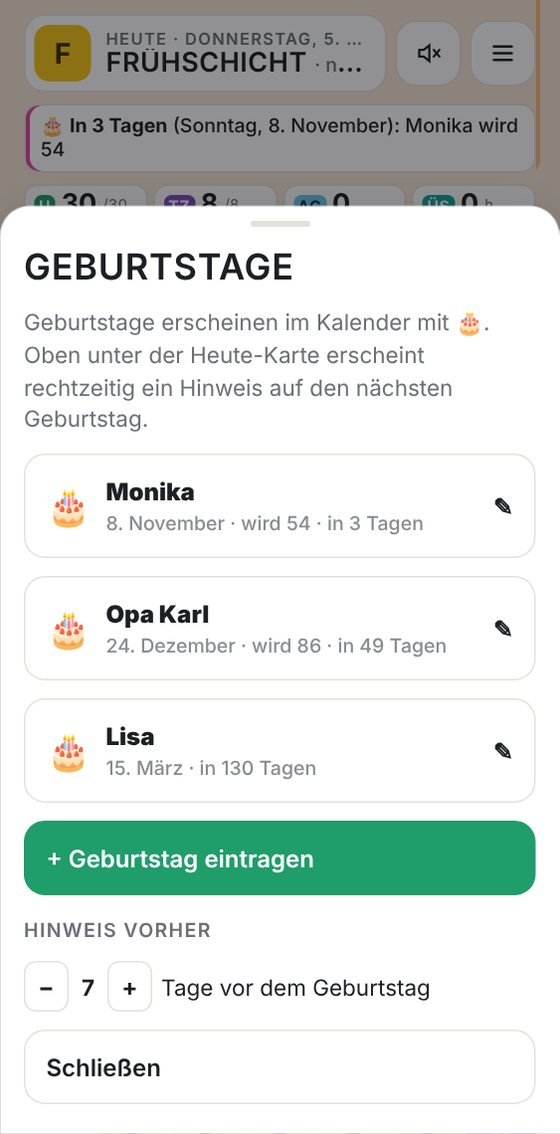
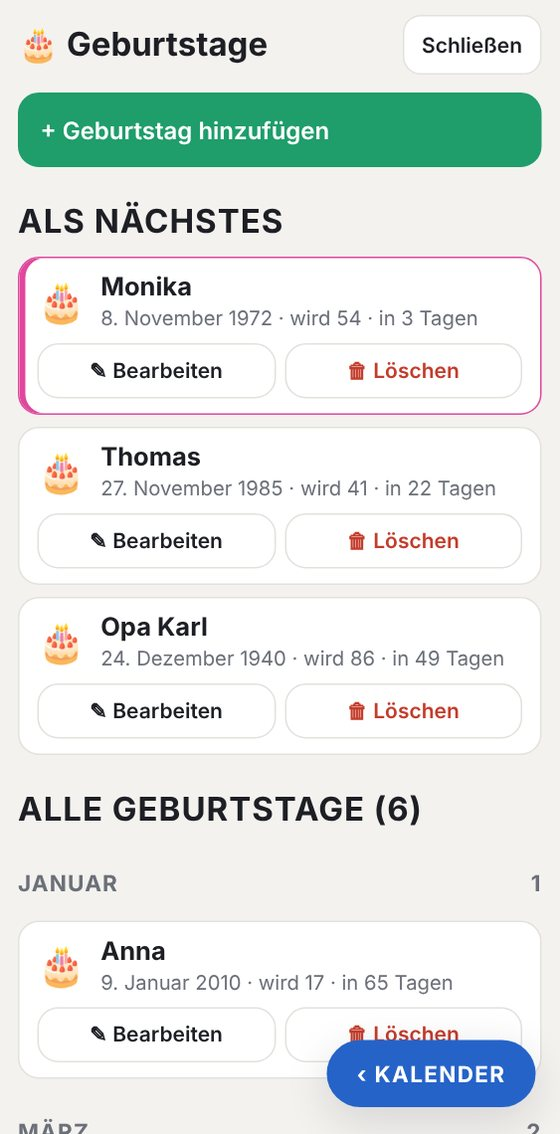
Geburtstage: eigene Übersichtsseite mit Bearbeiten, Löschen, Hinzufügen, nach Monaten sortiert
Claude-Session: https://claude.ai/code/session_01UYarYwaQ4b7eDEgu1BrBR4

diff --git a/index.html b/index.html
@@ -336,6 +336,11 @@ body.pv .budget{display:none}
 .pvnote{font-size:13.5px;color:var(--muted);margin:0}
 .day.ic2::before,.day.ic2[data-ic].ot::before{font-size:10px;letter-spacing:-1px;right:1px}
 .bdbar{box-shadow:inset 3px 0 0 #e0479e}
+.bdcard{background:var(--surface);border:1px solid var(--line);border-radius:14px;padding:10px 12px;display:grid;gap:8px}
+.bdcard.soon{border-color:#e0479e;box-shadow:inset 4px 0 0 #e0479e}
+.bdtop{display:flex;align-items:center;gap:10px}.bdtop .bdi{font-size:26px}.bdtop b{font-size:17px;display:block}.bdtop small{color:var(--muted);font-size:13.5px}
+.bdbtns{display:grid;grid-template-columns:1fr 1fr;gap:6px}.bdbtns .btn{justify-content:center;padding:9px 6px;font-size:14px}
+.bdmon{margin:16px 0 6px;font:700 15px var(--f-body);text-transform:uppercase;letter-spacing:.05em;color:var(--muted);display:flex;justify-content:space-between}
 .bdrow{display:flex;align-items:center;gap:10px}.bdrow .bdi{font-size:24px}.bdrow small{color:var(--muted)}
 .backfab{z-index:12;background:var(--nacht);color:var(--nacht-ink)}
 .day .rt{position:absolute;right:2px;top:3px;max-width:calc(55% - 4px);overflow:hidden;white-space:nowrap;font:800 9.5px/1.3 var(--f-body);letter-spacing:.02em;padding:0 2px;border-radius:3px;background:rgba(255,255,255,.88);color:#1d1f24;box-shadow:0 0 0 1px rgba(0,0,0,.18)}
@@ -425,6 +430,7 @@ a.btn{text-decoration:none;justify-content:center}
 <div class="yearview" id="helpView" hidden></div>
 <div class="yearview" id="entriesView" hidden></div>
 <div class="yearview" id="contactsView" hidden></div>
+<div class="yearview" id="bdaysView" hidden></div>
 <div class="toast" id="toast" hidden role="status"></div>
 <div class="scrim" id="scrim" hidden></div>
 <div class="sheet" id="sheet" hidden role="dialog" aria-modal="true"></div>
@@ -1984,7 +1990,7 @@ var qrcode=function(){var t=function(t,r){var e=t,n=g[r],o=null,i=0,a=null,u=[],
     ["modelle","Schichtplan und eigene Schichtmodelle","modelle",
      "Unter ☰ → <b>🔁 Schichtplan</b> kannst du für einen Zeitraum ein anderes Schichtmodell festlegen. Tippe auf „+ Neues Schichtmodell“. Für einen Zeitraum kannst du ein anderes Schichtmodell festlegen: Name, Gilt von, bis, dann den Ablauf aus Blöcken bauen (Früh, Spät, Nacht oder Frei, jeweils mit Anzahl Tage). Die Vorschau zeigt die ersten Wochen. Außerhalb gilt das 17,5-Modell, außer du hast es auf derselben Seite unten ausgeschaltet."],
     ["geburtstage","Geburtstage","geburtstage",
-     "Unter ☰ → <b>🎂 Geburtstage</b> trägst du Name und Geburtstag ein. Kennst du das Jahr nicht, setze den Haken „Geburtsjahr nicht bekannt“. Schneller geht es auch über den Kalender: Tag antippen → <b>🎂 Geburtstag an diesem Tag eintragen</b>. Die Liste ist nach dem nächsten Geburtstag sortiert. Bei „Hinweis vorher“ stellst du ein, wie viele Tage vorher erinnert wird (Standard 7). Mit <b>📅 Jedes Jahr in Google Kalender eintragen</b> bekommst du zusätzlich eine Erinnerung vom Handy."],
+     "Unter ☰ → <b>🎂 Geburtstage</b> trägst du Name und Geburtstag ein. Kennst du das Jahr nicht, setze den Haken „Geburtsjahr nicht bekannt“. Schneller geht es auch über den Kalender: Tag antippen → <b>🎂 Geburtstag an diesem Tag eintragen</b>. Auf der Seite <b>Geburtstage</b> siehst du oben die nächsten drei und darunter <b>alle Geburtstage nach Monaten</b>. Bei jedem Eintrag gibt es <b>✎ Bearbeiten</b> und <b>🗑 Löschen</b> (zweimal tippen), oben <b>+ Geburtstag hinzufügen</b>. Bald anstehende Geburtstage sind rosa umrandet. Bei „Hinweis vorher“ stellst du ein, wie viele Tage vorher erinnert wird (Standard 7). Unter ✎ Bearbeiten findest du <b>📅 Jedes Jahr in Google Kalender eintragen</b>, damit bekommst du zusätzlich eine Erinnerung vom Handy."],
     ["geburtstage2","Geburtstage im Kalender","geburtstage2",
      "Im Kalender steht am Geburtstag ein kleines <b>🎂</b> rechts im Tag. Oben unter der Heute-Karte erscheint rechtzeitig eine Leiste, z. B. „🎂 In 3 Tagen (Samstag, 7. November): Monika wird 54“, am Tag selbst „🎉 Heute hat Geburtstag“. Antippen der Leiste springt zum Tag. Geburtstage werden beim Teilen mit dem Partner nicht mitgeschickt."],
     ["routinen","Routinen","routinen",
@@ -2160,17 +2166,32 @@ var qrcode=function(){var t=function(t,r){var e=t,n=g[r],o=null,i=0,a=null,u=[],
   const bdDate=b=>{const [m,d]=b.d.split("-").map(Number);return d+". "+MON[m-1]};
   function bdGcal(b){const n=bdNext(b,TODAY),f=x=>iso(x).replace(/-/g,"");
     return "https://calendar.google.com/calendar/render?action=TEMPLATE&text="+encodeURIComponent("🎂 Geburtstag "+b.name)+"&dates="+f(n)+"/"+f(n+1)+"&recur="+encodeURIComponent("RRULE:FREQ=YEARLY")+"&details="+encodeURIComponent("(aus Schichtplan 17,5)")}
-  function bdaysSheet(){
-    const list=bdays.map((b,i)=>({b,i,n:bdNext(b,TODAY)})).sort((x,y)=>x.n-y.n).map(({b,i,n})=>{const k=n-TODAY,a=bdAge(b,n);
-      return '<button class="btn" data-bi="'+i+'"><span class="bdrow"><span class="bdi">'+(k===0?'🎉':'🎂')+'</span><span><b>'+esc(b.name)+'</b><br><small>'+bdDate(b)+(a!=null?' · wird '+a:'')+' · '+(k===0?'<b>heute</b>':k===1?'morgen':'in '+k+' Tagen')+'</small></span></span><span>✎</span></button>'}).join("");
-    openSheet('<h3>Geburtstage</h3><p>Geburtstage erscheinen im Kalender mit 🎂. Oben unter der Heute-Karte erscheint rechtzeitig ein Hinweis auf den nächsten Geburtstag.</p>'+
-      (list||'<p class="smeta">Noch kein Geburtstag eingetragen.</p>')+
-      '<button class="btn primary" data-a="bnew">+ Geburtstag eintragen</button>'+
-      '<h4>Hinweis vorher</h4><div class="mrow" style="align-items:center"><div class="mstep"><button type="button" data-bl="-1" aria-label="Weniger">−</button><b>'+bdLead+'</b><button type="button" data-bl="1" aria-label="Mehr">+</button></div><span>'+(bdLead===0?'nur am Geburtstag selbst':'Tag'+(bdLead===1?'':'e')+' vor dem Geburtstag')+'</span></div>'+
-      '<button class="btn" data-a="close">Schließen</button>');
-    sheet.onclick=ev=>{const bi=ev.target.closest("[data-bi]"),bl=ev.target.closest("[data-bl]"),a=ev.target.closest("[data-a]")?.dataset.a;
-      if(bi)return bdEditor(+bi.dataset.bi); if(a==="bnew")return bdEditor(-1); if(a==="close")return closeSheet();
-      if(bl){bdLead=Math.max(0,Math.min(30,bdLead+ +bl.dataset.bl));store.set("sp_bdlead",bdLead);renderToday();return bdaysSheet()}};
+  const bv=document.getElementById("bdaysView");
+  function bdaysSheet(){ renderBdays(); if(bv.hidden)openOverlay(bv); closeSheet() }
+  function renderBdays(){
+    const items=bdays.map((b,i)=>({b,i,n:bdNext(b,TODAY)}));
+    const card=({b,i,n})=>{const k=n-TODAY,a=bdAge(b,n),soon=k<=bdLead;
+      return '<li class="bdcard'+(soon?' soon':'')+'"><div class="bdtop"><span class="bdi">'+(k===0?'🎉':'🎂')+'</span><span><b>'+esc(b.name)+'</b><small>'+bdDate(b)+(b.y?' '+b.y:'')+(a!=null?' · wird '+a:'')+' · '+(k===0?'<b style="display:inline;font-size:inherit">heute</b>':k===1?'morgen':'in '+k+' Tagen')+'</small></span></div>'+
+        '<div class="bdbtns"><button type="button" class="btn" data-be="'+i+'">✎ Bearbeiten</button><button type="button" class="btn danger" data-bx="'+i+'">🗑 Löschen</button></div></li>'};
+    const next=items.slice().sort((x,y)=>x.n-y.n).slice(0,3);
+    let byMon="";
+    for(let m=1;m<=12;m++){const l=items.filter(x=>+x.b.d.slice(0,2)===m).sort((x,y)=>+x.b.d.slice(3)- +y.b.d.slice(3)||x.b.name.localeCompare(y.b.name,"de"));
+      if(l.length)byMon+='<div class="bdmon"><span>'+MON[m-1]+'</span><span>'+l.length+'</span></div><ul class="clist">'+l.map(card).join("")+'</ul>'}
+    bv.innerHTML='<div class="yvbar"><strong class="st" style="text-align:left">🎂 Geburtstage</strong><button type="button" class="iconbtn" data-bv="x">Schließen</button></div>'+
+      '<div class="sbody">'+
+      '<button type="button" class="btn primary" data-bv="new">+ Geburtstag hinzufügen</button>'+
+      (items.length?'<h3 class="sh">Als Nächstes</h3><ul class="clist">'+next.map(card).join("")+'</ul>'+
+        '<h3 class="sh">Alle Geburtstage ('+items.length+')</h3>'+byMon
+        :'<p class="smeta">Noch kein Geburtstag eingetragen. Tippe auf „+ Geburtstag hinzufügen“ oder im Kalender auf einen Tag.</p>')+
+      '<h3 class="sh">Hinweis vorher</h3><div class="mrow" style="align-items:center"><div class="mstep"><button type="button" data-bl="-1" aria-label="Weniger">−</button><b>'+bdLead+'</b><button type="button" data-bl="1" aria-label="Mehr">+</button></div><span>'+(bdLead===0?'nur am Geburtstag selbst':'Tag'+(bdLead===1?'':'e')+' vorher erscheint oben im Kalender ein Hinweis')+'</span></div>'+
+      '<p class="smeta">Rosa umrandet = Geburtstag kommt bald. Im Kalender steht am Geburtstag ein 🎂.</p></div>';
+    bv.onclick=ev=>{const t=ev.target,x=t.closest("[data-bv]")?.dataset.bv,be=t.closest("[data-be]"),bx=t.closest("[data-bx]"),bl=t.closest("[data-bl]");
+      if(x==="x")return closeOverlay(bv);
+      if(x==="new")return bdEditor(-1);
+      if(be)return bdEditor(+be.dataset.be);
+      if(bx){if(bx.dataset.sure!=="1"){bv.querySelectorAll("[data-bx]").forEach(o=>{o.dataset.sure="";o.textContent="🗑 Löschen"});bx.dataset.sure="1";bx.textContent="Sicher? Nochmal tippen";return}
+        const nm=bdays[+bx.dataset.bx].name;bdays.splice(+bx.dataset.bx,1);saveBdays();repaintAll();renderBdays();toast("Geburtstag von "+nm+" gelöscht");return}
+      if(bl){bdLead=Math.max(0,Math.min(30,bdLead+ +bl.dataset.bl));store.set("sp_bdlead",bdLead);renderToday();renderBdays()}};
   }
   function bdEditor(idx,day){
     const b=idx>=0?Object.assign({},bdays[idx]):{id:Date.now().toString(36),name:"",d:"",y:null};
@@ -2184,24 +2205,24 @@ var qrcode=function(){var t=function(t,r){var e=t,n=g[r],o=null,i=0,a=null,u=[],
         '<button class="btn primary" data-a="bsave">Speichern</button>'+
         (idx>=0?'<a class="btn" href="'+bdGcal(b)+'" target="_blank" rel="noopener">📅 Jedes Jahr in Google Kalender eintragen</a>':'')+
         (idx>=0?'<button class="btn danger" data-a="bdel">'+(sure?'Wirklich löschen? Nochmal tippen':'Geburtstag löschen')+'</button>':'')+
-        '<button class="btn" data-a="bback">'+(day!=null&&idx<0?'Abbrechen':'Zurück')+'</button>';
+        '<button class="btn" data-a="bback">Abbrechen</button>';
     }
     sheet.hidden=false;scrim.hidden=false;render();
     sheet.onclick=ev=>{const a=ev.target.closest("[data-a]")?.dataset.a;if(!a)return;
       b.name=document.getElementById("bName").value; val=document.getElementById("bDate").value; noYear=document.getElementById("bNoY").checked;
-      if(a==="bback")return day!=null&&idx<0?closeSheet():bdaysSheet();
-      if(a==="bdel"){if(!sure){sure=true;return render()}bdays.splice(idx,1);saveBdays();repaintAll();toast("Geburtstag gelöscht");return bdaysSheet()}
+      if(a==="bback")return closeSheet();
+      if(a==="bdel"){if(!sure){sure=true;return render()}bdays.splice(idx,1);saveBdays();repaintAll();toast("Geburtstag gelöscht");closeSheet();if(!bv.hidden)renderBdays();return}
       if(a==="bsave"){const er=document.getElementById("bErr");b.name=b.name.trim();
         if(!b.name){er.textContent="Bitte einen Namen eintragen.";return}
         if(!/^\d{4}-\d\d-\d\d$/.test(val)){er.textContent="Bitte den Geburtstag wählen.";return}
         const [Y,M,D]=val.split("-"); b.d=M+"-"+D; b.y=noYear?null:+Y;
         if(b.y&&b.y>fromDn(TODAY).y){er.textContent="Das Geburtsjahr liegt in der Zukunft.";return}
-        if(idx>=0)bdays[idx]=b; else bdays.push(b); saveBdays(); repaintAll(); toast("🎂 Geburtstag von "+b.name+" gespeichert"); return bdaysSheet()}
+        if(idx>=0)bdays[idx]=b; else bdays.push(b); saveBdays(); repaintAll(); toast("🎂 Geburtstag von "+b.name+" gespeichert"); closeSheet(); if(!bv.hidden)renderBdays(); return}
     };
   }
   document.getElementById("bdBar").onclick=e=>{const g=+e.currentTarget.dataset.go;if(g)jumpTo(g)};
   // ---------- Schwebender Knopf: von jeder Seite zurück zum Kalender ----------
-  { const OV=["yearView","statsView","notesView","helpView","entriesView","contactsView"].map(id=>document.getElementById(id)), bf=document.getElementById("backFab");
+  { const OV=["yearView","statsView","notesView","helpView","entriesView","contactsView","bdaysView"].map(id=>document.getElementById(id)), bf=document.getElementById("backFab");
     const upd=()=>{bf.hidden=!OV.some(o=>!o.hidden)};
     const mo=new MutationObserver(upd); OV.forEach(o=>mo.observe(o,{attributes:true,attributeFilter:["hidden"]}));
     bf.onclick=()=>{OV.forEach(o=>o.hidden=true);closeSheet();document.body.style.overflow="";upd()}; }

diff --git a/src/schichtplan.html b/src/schichtplan.html
@@ -320,6 +320,11 @@ body.pv .budget{display:none}
 .pvnote{font-size:13.5px;color:var(--muted);margin:0}
 .day.ic2::before,.day.ic2[data-ic].ot::before{font-size:10px;letter-spacing:-1px;right:1px}
 .bdbar{box-shadow:inset 3px 0 0 #e0479e}
+.bdcard{background:var(--surface);border:1px solid var(--line);border-radius:14px;padding:10px 12px;display:grid;gap:8px}
+.bdcard.soon{border-color:#e0479e;box-shadow:inset 4px 0 0 #e0479e}
+.bdtop{display:flex;align-items:center;gap:10px}.bdtop .bdi{font-size:26px}.bdtop b{font-size:17px;display:block}.bdtop small{color:var(--muted);font-size:13.5px}
+.bdbtns{display:grid;grid-template-columns:1fr 1fr;gap:6px}.bdbtns .btn{justify-content:center;padding:9px 6px;font-size:14px}
+.bdmon{margin:16px 0 6px;font:700 15px var(--f-body);text-transform:uppercase;letter-spacing:.05em;color:var(--muted);display:flex;justify-content:space-between}
 .bdrow{display:flex;align-items:center;gap:10px}.bdrow .bdi{font-size:24px}.bdrow small{color:var(--muted)}
 .backfab{z-index:12;background:var(--nacht);color:var(--nacht-ink)}
 .day .rt{position:absolute;right:2px;top:3px;max-width:calc(55% - 4px);overflow:hidden;white-space:nowrap;font:800 9.5px/1.3 var(--f-body);letter-spacing:.02em;padding:0 2px;border-radius:3px;background:rgba(255,255,255,.88);color:#1d1f24;box-shadow:0 0 0 1px rgba(0,0,0,.18)}
@@ -409,6 +414,7 @@ a.btn{text-decoration:none;justify-content:center}
 <div class="yearview" id="helpView" hidden></div>
 <div class="yearview" id="entriesView" hidden></div>
 <div class="yearview" id="contactsView" hidden></div>
+<div class="yearview" id="bdaysView" hidden></div>
 <div class="toast" id="toast" hidden role="status"></div>
 <div class="scrim" id="scrim" hidden></div>
 <div class="sheet" id="sheet" hidden role="dialog" aria-modal="true"></div>
@@ -1968,7 +1974,7 @@ var qrcode=function(){var t=function(t,r){var e=t,n=g[r],o=null,i=0,a=null,u=[],
     ["modelle","Schichtplan und eigene Schichtmodelle","modelle",
      "Unter ☰ → <b>🔁 Schichtplan</b> kannst du für einen Zeitraum ein anderes Schichtmodell festlegen. Tippe auf „+ Neues Schichtmodell“. Für einen Zeitraum kannst du ein anderes Schichtmodell festlegen: Name, Gilt von, bis, dann den Ablauf aus Blöcken bauen (Früh, Spät, Nacht oder Frei, jeweils mit Anzahl Tage). Die Vorschau zeigt die ersten Wochen. Außerhalb gilt das 17,5-Modell, außer du hast es auf derselben Seite unten ausgeschaltet."],
     ["geburtstage","Geburtstage","geburtstage",
-     "Unter ☰ → <b>🎂 Geburtstage</b> trägst du Name und Geburtstag ein. Kennst du das Jahr nicht, setze den Haken „Geburtsjahr nicht bekannt“. Schneller geht es auch über den Kalender: Tag antippen → <b>🎂 Geburtstag an diesem Tag eintragen</b>. Die Liste ist nach dem nächsten Geburtstag sortiert. Bei „Hinweis vorher“ stellst du ein, wie viele Tage vorher erinnert wird (Standard 7). Mit <b>📅 Jedes Jahr in Google Kalender eintragen</b> bekommst du zusätzlich eine Erinnerung vom Handy."],
+     "Unter ☰ → <b>🎂 Geburtstage</b> trägst du Name und Geburtstag ein. Kennst du das Jahr nicht, setze den Haken „Geburtsjahr nicht bekannt“. Schneller geht es auch über den Kalender: Tag antippen → <b>🎂 Geburtstag an diesem Tag eintragen</b>. Auf der Seite <b>Geburtstage</b> siehst du oben die nächsten drei und darunter <b>alle Geburtstage nach Monaten</b>. Bei jedem Eintrag gibt es <b>✎ Bearbeiten</b> und <b>🗑 Löschen</b> (zweimal tippen), oben <b>+ Geburtstag hinzufügen</b>. Bald anstehende Geburtstage sind rosa umrandet. Bei „Hinweis vorher“ stellst du ein, wie viele Tage vorher erinnert wird (Standard 7). Unter ✎ Bearbeiten findest du <b>📅 Jedes Jahr in Google Kalender eintragen</b>, damit bekommst du zusätzlich eine Erinnerung vom Handy."],
     ["geburtstage2","Geburtstage im Kalender","geburtstage2",
      "Im Kalender steht am Geburtstag ein kleines <b>🎂</b> rechts im Tag. Oben unter der Heute-Karte erscheint rechtzeitig eine Leiste, z. B. „🎂 In 3 Tagen (Samstag, 7. November): Monika wird 54“, am Tag selbst „🎉 Heute hat Geburtstag“. Antippen der Leiste springt zum Tag. Geburtstage werden beim Teilen mit dem Partner nicht mitgeschickt."],
     ["routinen","Routinen","routinen",
@@ -2144,17 +2150,32 @@ var qrcode=function(){var t=function(t,r){var e=t,n=g[r],o=null,i=0,a=null,u=[],
   const bdDate=b=>{const [m,d]=b.d.split("-").map(Number);return d+". "+MON[m-1]};
   function bdGcal(b){const n=bdNext(b,TODAY),f=x=>iso(x).replace(/-/g,"");
     return "https://calendar.google.com/calendar/render?action=TEMPLATE&text="+encodeURIComponent("🎂 Geburtstag "+b.name)+"&dates="+f(n)+"/"+f(n+1)+"&recur="+encodeURIComponent("RRULE:FREQ=YEARLY")+"&details="+encodeURIComponent("(aus Schichtplan 17,5)")}
-  function bdaysSheet(){
-    const list=bdays.map((b,i)=>({b,i,n:bdNext(b,TODAY)})).sort((x,y)=>x.n-y.n).map(({b,i,n})=>{const k=n-TODAY,a=bdAge(b,n);
-      return '<button class="btn" data-bi="'+i+'"><span class="bdrow"><span class="bdi">'+(k===0?'🎉':'🎂')+'</span><span><b>'+esc(b.name)+'</b><br><small>'+bdDate(b)+(a!=null?' · wird '+a:'')+' · '+(k===0?'<b>heute</b>':k===1?'morgen':'in '+k+' Tagen')+'</small></span></span><span>✎</span></button>'}).join("");
-    openSheet('<h3>Geburtstage</h3><p>Geburtstage erscheinen im Kalender mit 🎂. Oben unter der Heute-Karte erscheint rechtzeitig ein Hinweis auf den nächsten Geburtstag.</p>'+
-      (list||'<p class="smeta">Noch kein Geburtstag eingetragen.</p>')+
-      '<button class="btn primary" data-a="bnew">+ Geburtstag eintragen</button>'+
-      '<h4>Hinweis vorher</h4><div class="mrow" style="align-items:center"><div class="mstep"><button type="button" data-bl="-1" aria-label="Weniger">−</button><b>'+bdLead+'</b><button type="button" data-bl="1" aria-label="Mehr">+</button></div><span>'+(bdLead===0?'nur am Geburtstag selbst':'Tag'+(bdLead===1?'':'e')+' vor dem Geburtstag')+'</span></div>'+
-      '<button class="btn" data-a="close">Schließen</button>');
-    sheet.onclick=ev=>{const bi=ev.target.closest("[data-bi]"),bl=ev.target.closest("[data-bl]"),a=ev.target.closest("[data-a]")?.dataset.a;
-      if(bi)return bdEditor(+bi.dataset.bi); if(a==="bnew")return bdEditor(-1); if(a==="close")return closeSheet();
-      if(bl){bdLead=Math.max(0,Math.min(30,bdLead+ +bl.dataset.bl));store.set("sp_bdlead",bdLead);renderToday();return bdaysSheet()}};
+  const bv=document.getElementById("bdaysView");
+  function bdaysSheet(){ renderBdays(); if(bv.hidden)openOverlay(bv); closeSheet() }
+  function renderBdays(){
+    const items=bdays.map((b,i)=>({b,i,n:bdNext(b,TODAY)}));
+    const card=({b,i,n})=>{const k=n-TODAY,a=bdAge(b,n),soon=k<=bdLead;
+      return '<li class="bdcard'+(soon?' soon':'')+'"><div class="bdtop"><span class="bdi">'+(k===0?'🎉':'🎂')+'</span><span><b>'+esc(b.name)+'</b><small>'+bdDate(b)+(b.y?' '+b.y:'')+(a!=null?' · wird '+a:'')+' · '+(k===0?'<b style="display:inline;font-size:inherit">heute</b>':k===1?'morgen':'in '+k+' Tagen')+'</small></span></div>'+
+        '<div class="bdbtns"><button type="button" class="btn" data-be="'+i+'">✎ Bearbeiten</button><button type="button" class="btn danger" data-bx="'+i+'">🗑 Löschen</button></div></li>'};
+    const next=items.slice().sort((x,y)=>x.n-y.n).slice(0,3);
+    let byMon="";
+    for(let m=1;m<=12;m++){const l=items.filter(x=>+x.b.d.slice(0,2)===m).sort((x,y)=>+x.b.d.slice(3)- +y.b.d.slice(3)||x.b.name.localeCompare(y.b.name,"de"));
+      if(l.length)byMon+='<div class="bdmon"><span>'+MON[m-1]+'</span><span>'+l.length+'</span></div><ul class="clist">'+l.map(card).join("")+'</ul>'}
+    bv.innerHTML='<div class="yvbar"><strong class="st" style="text-align:left">🎂 Geburtstage</strong><button type="button" class="iconbtn" data-bv="x">Schließen</button></div>'+
+      '<div class="sbody">'+
+      '<button type="button" class="btn primary" data-bv="new">+ Geburtstag hinzufügen</button>'+
+      (items.length?'<h3 class="sh">Als Nächstes</h3><ul class="clist">'+next.map(card).join("")+'</ul>'+
+        '<h3 class="sh">Alle Geburtstage ('+items.length+')</h3>'+byMon
+        :'<p class="smeta">Noch kein Geburtstag eingetragen. Tippe auf „+ Geburtstag hinzufügen“ oder im Kalender auf einen Tag.</p>')+
+      '<h3 class="sh">Hinweis vorher</h3><div class="mrow" style="align-items:center"><div class="mstep"><button type="button" data-bl="-1" aria-label="Weniger">−</button><b>'+bdLead+'</b><button type="button" data-bl="1" aria-label="Mehr">+</button></div><span>'+(bdLead===0?'nur am Geburtstag selbst':'Tag'+(bdLead===1?'':'e')+' vorher erscheint oben im Kalender ein Hinweis')+'</span></div>'+
+      '<p class="smeta">Rosa umrandet = Geburtstag kommt bald. Im Kalender steht am Geburtstag ein 🎂.</p></div>';
+    bv.onclick=ev=>{const t=ev.target,x=t.closest("[data-bv]")?.dataset.bv,be=t.closest("[data-be]"),bx=t.closest("[data-bx]"),bl=t.closest("[data-bl]");
+      if(x==="x")return closeOverlay(bv);
+      if(x==="new")return bdEditor(-1);
+      if(be)return bdEditor(+be.dataset.be);
+      if(bx){if(bx.dataset.sure!=="1"){bv.querySelectorAll("[data-bx]").forEach(o=>{o.dataset.sure="";o.textContent="🗑 Löschen"});bx.dataset.sure="1";bx.textContent="Sicher? Nochmal tippen";return}
+        const nm=bdays[+bx.dataset.bx].name;bdays.splice(+bx.dataset.bx,1);saveBdays();repaintAll();renderBdays();toast("Geburtstag von "+nm+" gelöscht");return}
+      if(bl){bdLead=Math.max(0,Math.min(30,bdLead+ +bl.dataset.bl));store.set("sp_bdlead",bdLead);renderToday();renderBdays()}};
   }
   function bdEditor(idx,day){
     const b=idx>=0?Object.assign({},bdays[idx]):{id:Date.now().toString(36),name:"",d:"",y:null};
@@ -2168,24 +2189,24 @@ var qrcode=function(){var t=function(t,r){var e=t,n=g[r],o=null,i=0,a=null,u=[],
         '<button class="btn primary" data-a="bsave">Speichern</button>'+
         (idx>=0?'<a class="btn" href="'+bdGcal(b)+'" target="_blank" rel="noopener">📅 Jedes Jahr in Google Kalender eintragen</a>':'')+
         (idx>=0?'<button class="btn danger" data-a="bdel">'+(sure?'Wirklich löschen? Nochmal tippen':'Geburtstag löschen')+'</button>':'')+
-        '<button class="btn" data-a="bback">'+(day!=null&&idx<0?'Abbrechen':'Zurück')+'</button>';
+        '<button class="btn" data-a="bback">Abbrechen</button>';
     }
     sheet.hidden=false;scrim.hidden=false;render();
     sheet.onclick=ev=>{const a=ev.target.closest("[data-a]")?.dataset.a;if(!a)return;
       b.name=document.getElementById("bName").value; val=document.getElementById("bDate").value; noYear=document.getElementById("bNoY").checked;
-      if(a==="bback")return day!=null&&idx<0?closeSheet():bdaysSheet();
-      if(a==="bdel"){if(!sure){sure=true;return render()}bdays.splice(idx,1);saveBdays();repaintAll();toast("Geburtstag gelöscht");return bdaysSheet()}
+      if(a==="bback")return closeSheet();
+      if(a==="bdel"){if(!sure){sure=true;return render()}bdays.splice(idx,1);saveBdays();repaintAll();toast("Geburtstag gelöscht");closeSheet();if(!bv.hidden)renderBdays();return}
       if(a==="bsave"){const er=document.getElementById("bErr");b.name=b.name.trim();
         if(!b.name){er.textContent="Bitte einen Namen eintragen.";return}
         if(!/^\d{4}-\d\d-\d\d$/.test(val)){er.textContent="Bitte den Geburtstag wählen.";return}
         const [Y,M,D]=val.split("-"); b.d=M+"-"+D; b.y=noYear?null:+Y;
         if(b.y&&b.y>fromDn(TODAY).y){er.textContent="Das Geburtsjahr liegt in der Zukunft.";return}
-        if(idx>=0)bdays[idx]=b; else bdays.push(b); saveBdays(); repaintAll(); toast("🎂 Geburtstag von "+b.name+" gespeichert"); return bdaysSheet()}
+        if(idx>=0)bdays[idx]=b; else bdays.push(b); saveBdays(); repaintAll(); toast("🎂 Geburtstag von "+b.name+" gespeichert"); closeSheet(); if(!bv.hidden)renderBdays(); return}
     };
   }
   document.getElementById("bdBar").onclick=e=>{const g=+e.currentTarget.dataset.go;if(g)jumpTo(g)};
   // ---------- Schwebender Knopf: von jeder Seite zurück zum Kalender ----------
-  { const OV=["yearView","statsView","notesView","helpView","entriesView","contactsView"].map(id=>document.getElementById(id)), bf=document.getElementById("backFab");
+  { const OV=["yearView","statsView","notesView","helpView","entriesView","contactsView","bdaysView"].map(id=>document.getElementById(id)), bf=document.getElementById("backFab");
     const upd=()=>{bf.hidden=!OV.some(o=>!o.hidden)};
     const mo=new MutationObserver(upd); OV.forEach(o=>mo.observe(o,{attributes:true,attributeFilter:["hidden"]}));
     bf.onclick=()=>{OV.forEach(o=>o.hidden=true);closeSheet();document.body.style.overflow="";upd()}; }

diff --git a/sw.js b/sw.js
@@ -1,5 +1,5 @@
 // Offline-Speicher: App-Dateien werden auf dem Handy zwischengespeichert. Version wechselt bei jedem Update.
-const CACHE="schichtplan-be595e6f4e";const PRE=["./", "index.html", "manifest.webmanifest", "icons/icon-maskable-512.png", "icons/icon-maskable-192.png", "icons/icon-192.png", "icons/apple-touch-icon.png", "icons/icon-512.png", "help/partner2.jpg", "help/tag.jpg", "help/notiz.jpg", "help/statistik.jpg", "help/kalendereintrag.jpg", "help/statistik2.jpg", "help/farben.jpg", "help/partner3.jpg", "help/routinen2.jpg", "help/kalender.jpg", "help/partner.jpg", "help/jahr.jpg", "help/geburtstage.jpg", "help/notizen.jpg", "help/kopf.jpg", "help/zeitraum.jpg", "help/ueberstunden.jpg", "help/modelle.jpg", "help/sicherung.jpg", "help/leer.jpg", "help/eintraege.jpg", "help/einstellungen.jpg", "help/feiertage.jpg", "help/teamleiter.jpg", "help/geburtstage2.jpg", "help/routinen.jpg", "help/menue.jpg"];
+const CACHE="schichtplan-9097eb4395";const PRE=["./", "index.html", "manifest.webmanifest", "icons/icon-maskable-512.png", "icons/icon-maskable-192.png", "icons/icon-192.png", "icons/apple-touch-icon.png", "icons/icon-512.png", "help/partner2.jpg", "help/tag.jpg", "help/notiz.jpg", "help/statistik.jpg", "help/kalendereintrag.jpg", "help/statistik2.jpg", "help/farben.jpg", "help/partner3.jpg", "help/routinen2.jpg", "help/kalender.jpg", "help/partner.jpg", "help/jahr.jpg", "help/geburtstage.jpg", "help/notizen.jpg", "help/kopf.jpg", "help/zeitraum.jpg", "help/ueberstunden.jpg", "help/modelle.jpg", "help/sicherung.jpg", "help/leer.jpg", "help/eintraege.jpg", "help/einstellungen.jpg", "help/feiertage.jpg", "help/teamleiter.jpg", "help/geburtstage2.jpg", "help/routinen.jpg", "help/menue.jpg"];
 self.addEventListener("install",e=>{e.waitUntil(caches.open(CACHE).then(c=>c.addAll(PRE)).then(()=>self.skipWaiting()))});
 self.addEventListener("activate",e=>{e.waitUntil(caches.keys().then(ks=>Promise.all(ks.filter(k=>k!==CACHE).map(k=>caches.delete(k)))).then(()=>self.clients.claim()))});
 self.addEventListener("fetch",e=>{const r=e.request;if(r.method!=="GET")return;const u=new URL(r.url);

diff --git a/CLAUDE.md b/CLAUDE.md
@@ -28,7 +28,7 @@ Sicherung (JSON) enthält alles; Laden über Menü → Sicherung.
 - Besondere Tage ohne Feiertag (nur Symbol): Faschingsbeginn 11.11., Weiberfastnacht, Rosenmontag, Faschingsdienstag, Ostersonntag, Muttertag, Nikolaus. Zeitumstellung (letzter So im März/Okt) separat über `dst()`.
 
 ## Funktionen (alle vorhanden)
-Endlos-Kalender (ganze Seite scrollt, Kopf sticky), Wochentage in Kacheln, Wochenend-Band (Standardfarbe Orange #ff8000, einstellbar), Feiertagssymbole (Emoji), Tag antippen → Urlaub/TZ/Ausgleich/Krank (dunkelrot, 🌡)/Sonderurlaub (hellrosa), ein Tag oder Zeitraum mit Mini-Kalender, „Nur Notiz hinzufügen“ + danach Angebot Google-Kalender-Link, Überstunden mit Von/Bis/Pause, Statistik-Seite, Meine Einträge (ändern/löschen/springen), Notizen-Seite, Telefonbuch (früher Teamleiter; „Wer ist das?“ mit Schnellwahl Teamleiter/Kollege/Familie/Arzt/Notfall/Sonstige, sortiert), Jahresübersicht (nur Schichten + Feiertage) mit „Als PDF speichern und drucken“ (jsPDF von cdnjs), Excel/CSV-Export, Sicherung, Farben einstellbar, Schichtmodell-Editor, Anleitung mit Bildern, Impressum, Hinweis 14 Tage vor Zeitumstellung. Schwebender Knopf **„‹ Kalender“** (`#backFab`) erscheint auf allen Vollbild-Seiten (Jahresübersicht, Statistik, Notizen, Anleitung, Einträge, Telefonbuch) und schließt sie von überall.
+Endlos-Kalender (ganze Seite scrollt, Kopf sticky), Wochentage in Kacheln, Wochenend-Band (Standardfarbe Orange #ff8000, einstellbar), Feiertagssymbole (Emoji), Tag antippen → Urlaub/TZ/Ausgleich/Krank (dunkelrot, 🌡)/Sonderurlaub (hellrosa), ein Tag oder Zeitraum mit Mini-Kalender, „Nur Notiz hinzufügen“ + danach Angebot Google-Kalender-Link, Überstunden mit Von/Bis/Pause, Statistik-Seite, Meine Einträge (ändern/löschen/springen), Notizen-Seite, Telefonbuch (früher Teamleiter; „Wer ist das?“ mit Schnellwahl Teamleiter/Kollege/Familie/Arzt/Notfall/Sonstige, sortiert), Jahresübersicht (nur Schichten + Feiertage) mit „Als PDF speichern und drucken“ (jsPDF von cdnjs), Excel/CSV-Export, Sicherung, Farben einstellbar, Schichtmodell-Editor, Anleitung mit Bildern, Impressum, Hinweis 14 Tage vor Zeitumstellung. Schwebender Knopf **„‹ Kalender“** (`#backFab`) erscheint auf allen Vollbild-Seiten (Jahresübersicht, Statistik, Notizen, Anleitung, Einträge, Telefonbuch, Geburtstage) und schließt sie von überall.
 
 ## 17,5-Modell ausschalten
 - Menü → **🔁 Schichtplan** (früher „Schichtmodelle“) → unten „17,5-Modell entfernen (leerer Kalender)“ (zweimal tippen). Nicht mehr in den Einstellungen (Wunsch des Nutzers). Setzt nur `sp_base="none"` auf diesem Gerät; ohne den Schlüssel gilt weiter das 17,5-Modell (bestehende Nutzer unverändert). `rawShift()` liefert dann „X“, außer ein eigenes Schichtmodell gilt. Einträge bleiben erhalten. Rückgängig über „17,5-Modell wieder einschalten“.
@@ -39,6 +39,7 @@ Endlos-Kalender (ganze Seite scrollt, Kopf sticky), Wochentage in Kacheln, Woche
 - Nicht in Jahresübersicht/PDF, nicht im Partner-Link. In der Sicherung enthalten.
 
 ## Geburtstage (Menü → 🎂 Geburtstage, oder Tag antippen → „Geburtstag an diesem Tag eintragen“)
+- Eigene Vollbild-Seite `#bdaysView` (`renderBdays`): oben „+ Geburtstag hinzufügen“, „Als Nächstes“ (3 nächste), dann „Alle Geburtstage“ nach Monaten; jede Karte mit ✎ Bearbeiten und 🗑 Löschen (zweimal tippen); bald anstehende rosa umrandet; „Hinweis vorher“ unten. Bearbeiten öffnet ein Sheet (`bdEditor`), danach zurück zur Seite.
 - Name, Datum, Jahr optional (dann kein Alter). 29.2. erscheint in Nicht-Schaltjahren am 28.2.
 - Kalender: 🎂 im Symbol-Platz oben rechts (`data-ic`, zusammen mit Feiertagssymbol; dann Klasse `ic2` = kleiner). Kein eigener Platz, damit nichts die Zahl überdeckt.
 - Hinweisleiste `#bdBar` unter der Heute-Karte (wie Zeitumstellung): „🎂 In 3 Tagen (…): Monika wird 54“, am Tag „🎉 Heute hat Geburtstag: …“. Vorlauf einstellbar 0–30 Tage. Antippen springt zum Tag.
